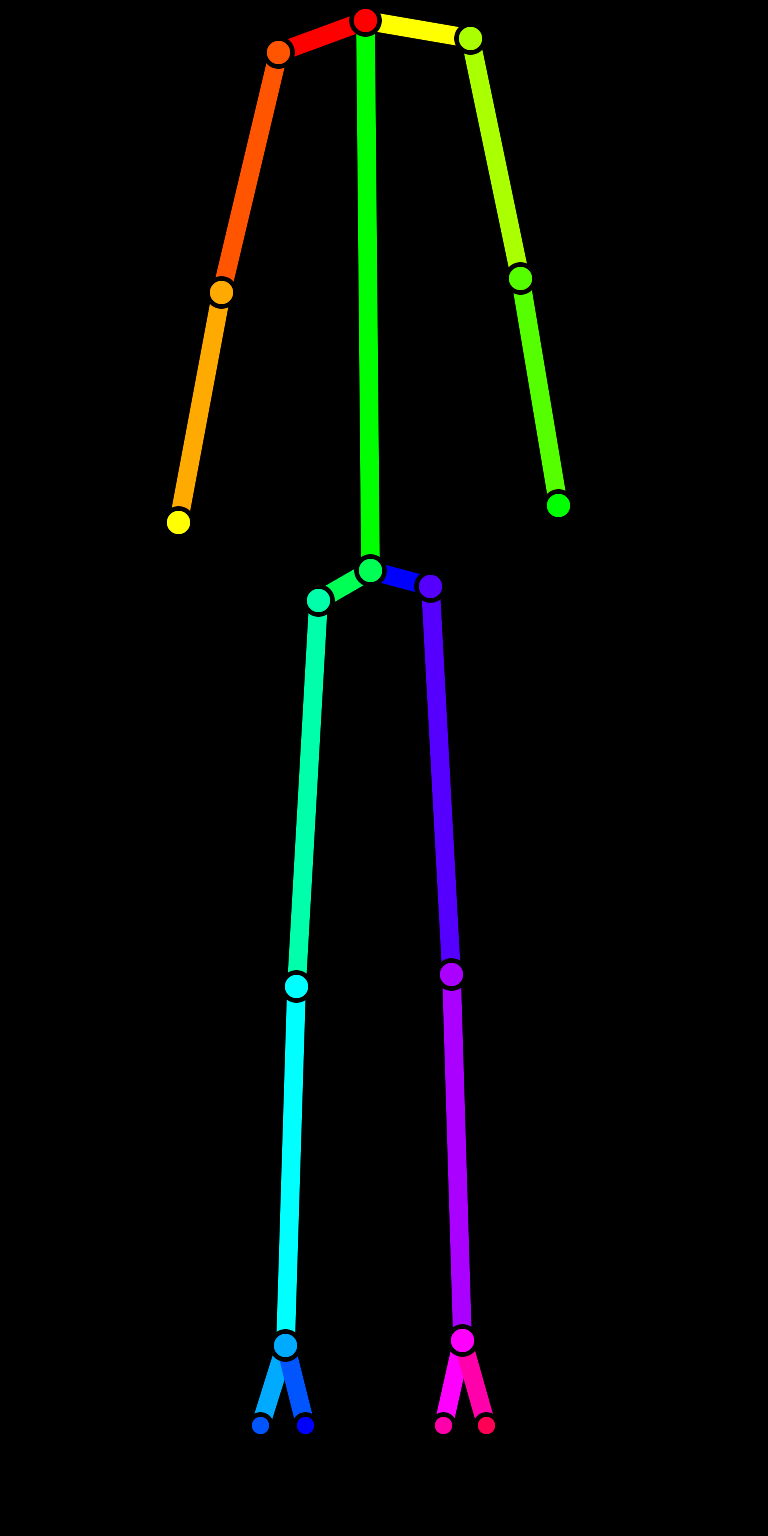
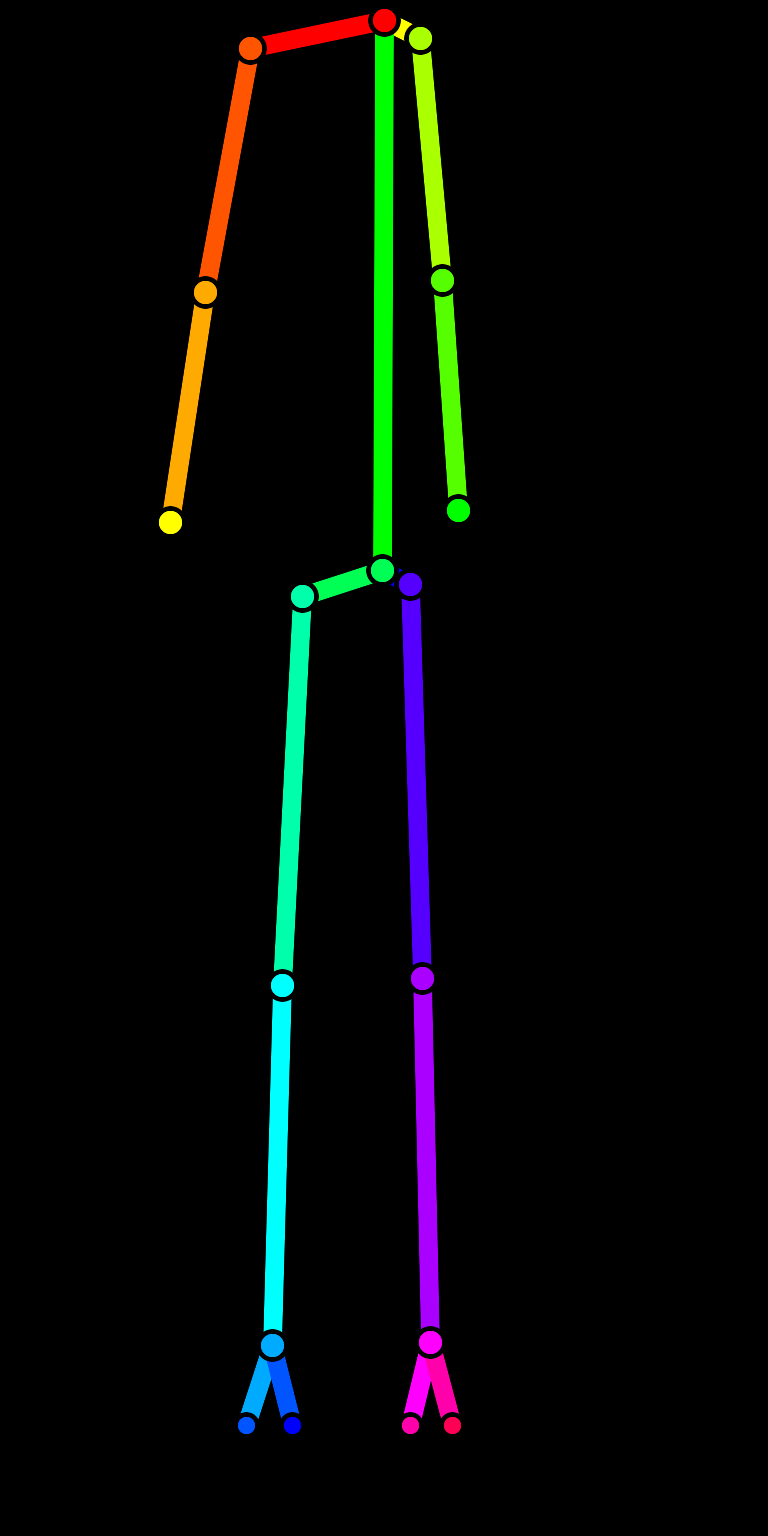
fix(image-studio): enforce body three-quarter poses

Changed region(s): [[0.1875, 0.0, 0.75, 0.9375]]

diff --git a/src/ai_node/runtime/node_control_api.py b/src/ai_node/runtime/node_control_api.py
@@ -4652,6 +4652,11 @@ class NodeControlState:
             pose_id = self._safe_filename_component(active_pose.get("pose_id") or "pose")
             pose_config = next((item for item in body_pose_catalog if str(item.get("pose_id") or "") == pose_id), {})
             pose_reference_image = self._ensure_avatar_lora_pose_guide(relative_image=str(pose_config.get("guide_image") or ""))
+            pose_body_prompt = self._avatar_body_lora_dataset_pose_prompt(prompt=prompt, pose=pose_config)
+            pose_negative_prompt = self._avatar_body_lora_dataset_pose_negative_prompt(
+                negative_prompt=negative_prompt,
+                pose=pose_config,
+            )
             avatar_name = self._safe_filename_component(metadata.get("name") or profile_dir.name or "avatar")
             while len(existing_items) < AVATAR_HEAD_FACE_LORA_DATASET_BATCH_SIZE:
                 occupied_slots = {int(candidate.get("slot_index") or 0) for candidate in existing_items}
@@ -4665,11 +4670,13 @@ class NodeControlState:
                 seed_history.add(seed)
                 variation = self._avatar_head_lora_dataset_variation(
                     slot_index=slot_index, cfg=cfg, face_strength=0,
-                    pose_strength=float(body_prompt_defaults.get("pose_strength") or 0.8), catalog_kind="body"
+                    pose_strength=float(pose_config.get("pose_strength") or body_prompt_defaults.get("pose_strength") or 0.8),
+                    pose_id=pose_id,
+                    catalog_kind="body",
                 )
                 item_prompt = ", ".join(filter(None, [
                     str(active_pose.get("pose_prompt") or "").strip(),
-                    prompt,
+                    pose_body_prompt,
                     variation["prompt_suffix"],
                     str(body_prompt_catalog.get("shared_prompt_suffix") or "single adult character, complete neck-to-toes framing, entire body visible, consistent anatomy and proportions, body LoRA training reference"),
                 ]))
@@ -4678,23 +4685,23 @@ class NodeControlState:
                     self._avatar_head_face_seed_batch_local_preview(
                         batch_id=str(dataset.get("dataset_id") or f"upper_torso_lora_dataset_{int(time.time())}"),
                         prompt=item_prompt, prompt_parts=prompt_parts, locked_prompt_parts={},
-                        negative_prompt=negative_prompt, seed=seed, width=width, height=height,
+                        negative_prompt=pose_negative_prompt, seed=seed, width=width, height=height,
                         steps=steps, cfg=variation["cfg"], denoise=denoise, now=now, slot_index=slot_index,
                         batch_kind="upper_torso_lora_dataset", anchor_seed=body_seed,
                         template_id=AVATAR_UPPER_TORSO_LORA_DEPTH_POSE_TEMPLATE_ID,
                         template_variables={
                             "body_reference_image": body_reference_image,
                             "body_depth_controlnet": str(defaults.get("body_depth_controlnet") or "controlnet-depth-sdxl-1.0-fp16.safetensors"),
-                            "body_depth_strength": float(body_prompt_defaults.get("body_depth_strength") or defaults.get("body_depth_strength") or 0.55),
+                            "body_depth_strength": float(pose_config.get("body_depth_strength") or body_prompt_defaults.get("body_depth_strength") or defaults.get("body_depth_strength") or 0.55),
                             "body_depth_start": float(body_prompt_defaults.get("body_depth_start") or defaults.get("body_depth_start") or 0),
-                            "body_depth_end": float(body_prompt_defaults.get("body_depth_end") or defaults.get("body_depth_end") or 0.6),
+                            "body_depth_end": float(pose_config.get("body_depth_end") or body_prompt_defaults.get("body_depth_end") or defaults.get("body_depth_end") or 0.6),
                             "depth_anything_model": str(defaults.get("depth_anything_model") or "depth_anything_v2_vits.pth"),
                             "depth_resolution": int(defaults.get("depth_resolution") or 768),
                             "pose_reference_image": pose_reference_image,
                             "pose_controlnet": str(defaults.get("pose_controlnet") or "controlnet-openpose-sdxl-1.0.safetensors"),
                             "pose_strength": variation["pose_strength"],
                             "pose_start": float(body_prompt_defaults.get("pose_start") or 0),
-                            "pose_end": float(body_prompt_defaults.get("pose_end") or 0.8),
+                            "pose_end": float(pose_config.get("pose_end") or body_prompt_defaults.get("pose_end") or 0.8),
                         },
                     ) | {
                         "preview_id": f"body_lora_{pose_id}_{item_token}", "pose_id": pose_id,
@@ -9197,6 +9204,26 @@ class NodeControlState:
         for source, target in replacements.items():
             cleaned = cleaned.replace(source, target)
         return cleaned
+
+    @staticmethod
+    def _avatar_body_lora_dataset_pose_prompt(*, prompt: str, pose: dict) -> str:
+        cleaned = str(prompt or "")
+        replacements = pose.get("prompt_replacements") if isinstance(pose.get("prompt_replacements"), dict) else {}
+        for source, target in replacements.items():
+            cleaned = re.sub(re.escape(str(source)), lambda _match: str(target), cleaned, flags=re.IGNORECASE)
+        return cleaned
+
+    @staticmethod
+    def _avatar_body_lora_dataset_pose_negative_prompt(*, negative_prompt: str, pose: dict) -> str:
+        removed = {
+            str(item).strip().lower()
+            for item in list(pose.get("negative_remove") or [])
+            if str(item).strip()
+        }
+        parts = [part.strip() for part in str(negative_prompt or "").split(",") if part.strip()]
+        parts = [part for part in parts if part.lower() not in removed]
+        parts.extend(str(item).strip() for item in list(pose.get("negative_add") or []) if str(item).strip())
+        return ", ".join(dict.fromkeys(parts))
 
     @classmethod
     def _avatar_head_lora_dataset_pose_geometry_prompt(cls, *, pose_id: str) -> str:

diff --git a/scripts/generate-lora-pose-guides.py b/scripts/generate-lora-pose-guides.py
@@ -19,8 +19,11 @@ COLORS = [
 
 POSES = {
     "front_neutral": [(384, 20), (270, 45), (205, 285), (148, 520), (498, 45), (563, 285), (620, 520), (384, 570), (315, 595), (285, 985), (270, 1345), (245, 1425), (292, 1425), (453, 595), (483, 985), (498, 1345), (476, 1425), (523, 1425)],
-    "three_quarter_left": [(365, 20), (278, 52), (221, 292), (178, 522), (470, 38), (520, 278), (558, 505), (370, 570), (318, 600), (296, 986), (285, 1345), (260, 1425), (305, 1425), (430, 586), (451, 974), (462, 1340), (443, 1425), (486, 1425)],
-    "three_quarter_right": [(403, 20), (298, 38), (248, 278), (210, 505), (490, 52), (547, 292), (590, 522), (398, 570), (338, 586), (317, 974), (306, 1340), (282, 1425), (325, 1425), (450, 600), (472, 986), (483, 1345), (463, 1425), (508, 1425)],
+    # Strong shoulder/hip foreshortening makes axial body yaw legible to the
+    # 2D OpenPose ControlNet. The far side sits close to the centerline while
+    # the near side retains the wider silhouette.
+    "three_quarter_left": [(384, 20), (250, 48), (205, 292), (170, 522), (420, 38), (442, 280), (458, 510), (382, 570), (302, 596), (282, 985), (272, 1345), (246, 1425), (292, 1425), (410, 584), (422, 978), (430, 1342), (410, 1425), (452, 1425)],
+    "three_quarter_right": [(384, 20), (348, 38), (326, 280), (310, 510), (518, 48), (563, 292), (598, 522), (386, 570), (358, 584), (346, 978), (338, 1342), (316, 1425), (358, 1425), (466, 596), (486, 985), (496, 1345), (476, 1425), (522, 1425)],
     "profile_left": [(350, 20), (325, 48), (300, 290), (285, 515), (382, 42), (405, 282), (420, 510), (365, 570), (342, 598), (330, 985), (326, 1345), (303, 1425), (344, 1425), (390, 592), (400, 980), (405, 1342), (387, 1425), (426, 1425)],
     "profile_right": [(418, 20), (386, 42), (363, 282), (348, 510), (443, 48), (468, 290), (483, 515), (403, 570), (378, 592), (368, 980), (363, 1342), (342, 1425), (381, 1425), (426, 598), (438, 985), (442, 1345), (424, 1425), (465, 1425)],
     "back_neutral": [(384, 20), (498, 45), (563, 285), (620, 520), (270, 45), (205, 285), (148, 520), (384, 570), (453, 595), (483, 985), (498, 1345), (476, 1425), (523, 1425), (315, 595), (285, 985), (270, 1345), (245, 1425), (292, 1425)],

diff --git a/tests/test_node_control_api.py b/tests/test_node_control_api.py
@@ -5809,6 +5809,23 @@ class NodeControlOperationalMqttRecoveryTests(unittest.IsolatedAsyncioTestCase):
             self.assertTrue(old_body_seeds.isdisjoint({item["seed"] for item in body_replacements}))
             self.assertTrue(old_body_seeds.issubset(set(body_rerolled_pose["seed_history"])))
 
+            angled_body_dataset = asyncio.run(
+                state.update_avatar_profile_upper_torso_lora_dataset(
+                    profile_id="Jane_Avatar",
+                    payload=AvatarProfileHeadLoraDatasetRequest(action="generate", pose_id="three_quarter_left"),
+                )
+            )["dataset"]
+            angled_body_pose = next(item for item in angled_body_dataset["poses"] if item["pose_id"] == "three_quarter_left")
+            angled_body_item = angled_body_pose["items"][0]
+            self.assertIn("mandatory anatomical-left three-quarter body view", angled_body_item["prompt"])
+            self.assertNotIn("symmetrical front-facing anatomical A-pose", angled_body_item["prompt"])
+            self.assertNotIn("three-quarter view", [part.strip() for part in angled_body_item["negative_prompt"].split(",")])
+            self.assertIn("straight-on frontal body", angled_body_item["negative_prompt"])
+            self.assertEqual(angled_body_item["template_variables"]["body_depth_strength"], 0.22)
+            self.assertEqual(angled_body_item["template_variables"]["body_depth_end"], 0.45)
+            self.assertEqual(angled_body_item["template_variables"]["pose_end"], 0.95)
+            self.assertGreaterEqual(angled_body_item["template_variables"]["pose_strength"], 0.78)
+
             generated = asyncio.run(
                 state.update_avatar_profile_head_lora_dataset(
                     profile_id="Jane_Avatar",
